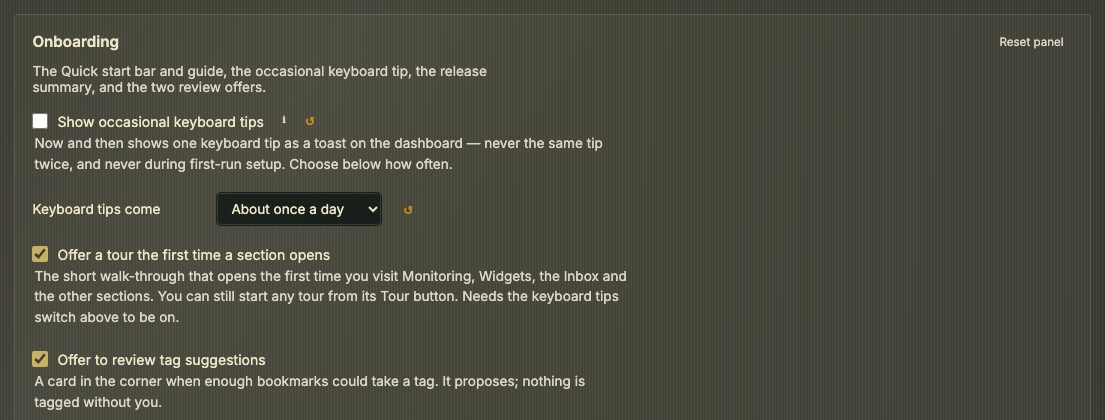
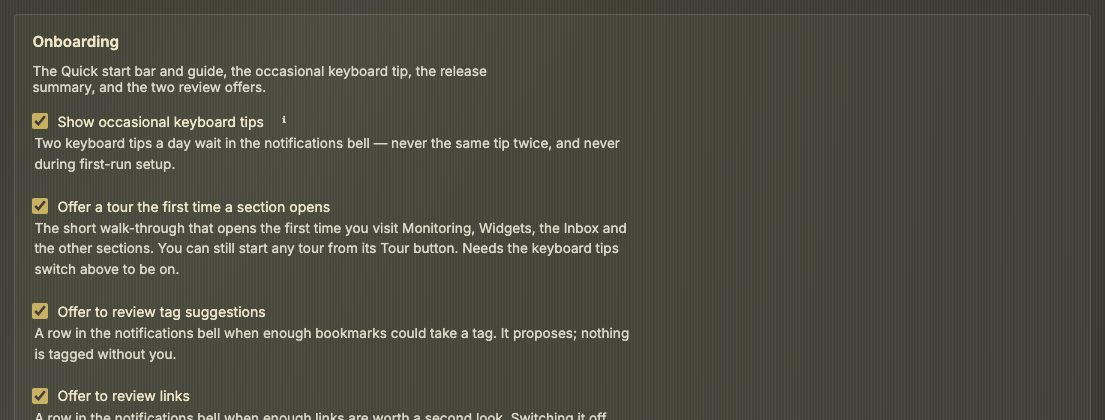
Tips: no pace to choose, since the bell holds two a day

diff --git a/tests/tips-settings.spec.js b/tests/tips-settings.spec.js
@@ -3,7 +3,7 @@ const { test, expect } = require('./fixtures');
 const { dismissOnboardingIfPresent, dismissBlockingOverlays, markWhatsNewSeen } = require('./e2e-helpers');
 
 /**
- * Config → Behavior → Onboarding: how often keyboard tips come, and whether a
+ * Config → Behavior → Onboarding: whether keyboard tips come, and whether a
  * section offers its tour on the first visit. Both are read where the thing is
  * decided, so the tests set the setting and ask that decision.
  */
@@ -17,27 +17,25 @@ async function open(page) {
 }
 
 test.describe('tips settings', () => {
-    test('weekly spaces tips a week apart, daily a day', async ({ page }) => {
+    test('a tip is spaced a day apart, whatever an older install stored', async ({ page }) => {
         await open(page);
-        const allowed = (frequency, agoMs) => page.evaluate(({ frequency, agoMs }) => {
-            window.dashboardInstance.settings.sessionTipsFrequency = frequency;
+        const allowed = (stored, agoMs) => page.evaluate(({ stored, agoMs }) => {
+            // A setting from before the choice was removed must not change the pace.
+            window.dashboardInstance.settings.sessionTipsFrequency = stored;
             const state = window.DiscoverabilityState;
             const exported = state.exportState();
             exported.tipsShownAt = [Date.now() - agoMs];
             exported.tipsNotBefore = 0;
             state.init(exported);
             return state.tipsAllowedNow();
-        }, { frequency, agoMs });
+        }, { stored, agoMs });
         const DAY = 24 * 60 * 60 * 1000;
-        expect(await allowed('daily', 2 * DAY)).toBe(true);
-        expect(await allowed('daily', 0.5 * DAY)).toBe(false);
-        expect(await allowed('weekly', 2 * DAY)).toBe(false);
-        expect(await allowed('weekly', 8 * DAY)).toBe(true);
-        // A browser that never chose is daily.
         expect(await allowed('', 2 * DAY)).toBe(true);
+        expect(await allowed('', 0.5 * DAY)).toBe(false);
+        expect(await allowed('weekly', 2 * DAY)).toBe(true);
     });
 
-    test('the Onboarding group carries the frequency and the tours switch', async ({ page }) => {
+    test('the Onboarding group carries the tips and the tours switches, and no pace', async ({ page }) => {
         await open(page);
         await page.evaluate(async () => {
             const c = window.dashboardInstance.config;
@@ -45,10 +43,10 @@ test.describe('tips settings', () => {
             await c.openConfigView('behavior');
         });
         const group = page.locator('#config-section-panel');
-        await expect(group.locator('[data-behavior-field="sessionTipsFrequency"]')).toBeVisible();
+        await expect(group.locator('[data-behavior-field="enableSessionTips"]')).toBeVisible();
         await expect(group.locator('[data-behavior-field="enableSectionTours"]')).toBeVisible();
-        await group.locator('[data-behavior-field="sessionTipsFrequency"]').selectOption('weekly');
-        expect(await page.evaluate(() => window.dashboardInstance.settings.sessionTipsFrequency)).toBe('weekly');
+        // The bell holds two tips a day: there is no pace to choose any more.
+        await expect(group.locator('[data-behavior-field="sessionTipsFrequency"]')).toHaveCount(0);
     });
 
     for (const [name, on] of [['offers the tour on a first visit while the switch is on', true], ['keeps a first visit quiet once the switch is off', false]]) {

diff --git a/static/js/dashboard/dashboard-config.js b/static/js/dashboard/dashboard-config.js
@@ -9361,7 +9361,6 @@ class DashboardConfig {
         allowLocalBookmarks: { info: ['allowLocalBookmarksInfoTitle', 'allowLocalBookmarksInfoMessage'], def: true },
         enableSessionTips: { info: ['sessionTipsInfoTitle', 'sessionTipsInfoMessage'], hint: 'sessionTipsHint', def: true },
         enableSectionTours: { hint: 'sectionToursHint', def: true },
-        sessionTipsFrequency: { def: 'daily' },
         enableTagSuggestionNotice: { hint: 'tagSuggestionNoticeHint', def: true },
         enableHealthReviewNotice: { hint: 'healthReviewNoticeHint', def: true },
         enableDockerUpdateNotice: { hint: 'dockerUpdateNoticeHint', def: true },
@@ -10499,10 +10498,6 @@ class DashboardConfig {
                 note: t('config.generalGroupOnboardingNote', 'The Quick start bar and guide, the occasional keyboard tip, the release summary, and the two review offers.'),
                 controls: [
                     bool('enableSessionTips', 'config.sessionTipsLabel', 'Show occasional keyboard tips'),
-                    { field: 'sessionTipsFrequency', type: 'select', label: t('config.sessionTipsFrequencyLabel', 'Keyboard tips come'), options: [
-                        opt('daily', t('config.sessionTipsDaily', 'About once a day')),
-                        opt('weekly', t('config.sessionTipsWeekly', 'About once a week')),
-                    ] },
                     bool('enableSectionTours', 'config.sectionToursLabel', 'Offer a tour the first time a section opens'),
                     // The two cards that offer a review on their own. Here
                     // rather than beside the feature each belongs to, because

diff --git a/tests/manual-screenshots-v1-23.spec.js b/tests/manual-screenshots-v1-23.spec.js
@@ -138,11 +138,20 @@ test('17 find settings recent', async ({ page }) => {
     await snap(page, finder, '17-find-settings-recent.jpg', { pad: 4, keepFocus: true });
 });
 
-test('17 onboarding tips frequency', async ({ page }) => {
+
+// The kit puts the keyboard tips away so no tip sits over a picture; this scene shows them on.
+const tipsOn = { run: (dir) => {
+    const kit = require('./helpers/manual-shot-kit');
+    const file = kit.path.join(dir, 'settings.json');
+    kit.writeJSON(file, { ...kit.readJSON(file), enableSessionTips: true });
+} };
+test.describe('onboarding tips picture', () => {
+    test.use({ dataTweak: tipsOn });
+test('17 onboarding tips', async ({ page }) => {
     await prepare(page);
     await openConfig(page, 'behavior');
     await page.locator('[data-behavior-tab="privacy"]').first().click();
-    const select = page.locator('[data-behavior-field="sessionTipsFrequency"]');
+    const select = page.locator('[data-behavior-field="enableSessionTips"]');
     await select.waitFor();
     const group = page.locator('#config-section-panel .config-panel', { has: select }).first();
     // The group's title sits under the sticky head unless it is scrolled clear of it.
@@ -154,4 +163,5 @@ test('17 onboarding tips frequency', async ({ page }) => {
     // Pacing for the capture, not a condition: the section finishes scrolling.
     await page.waitForTimeout(600);
     await snap(page, group, '17-onboarding-tips.jpg', { pad: 14, maxHeight: 420 });
+});
 });

diff --git a/tests/config-info-reset.spec.js b/tests/config-info-reset.spec.js
@@ -106,6 +106,9 @@ test.describe('config info + reset affordances', () => {
             // Carried for the ↺ button and the changed-settings count; it has no
             // control of its own, so there is nothing for an ℹ to sit beside.
             'newBookmarkCategory',
+            // The bell's sound carries a hint line under the toggle, and the name for the
+            // greeting a note above it: the explanation is on screen, so no ℹ.
+            'bellSound', 'greetingName',
             // Reads as part of the toggle above it, which carries the ℹ.
             'rowTagsMax', 'smartAddedLimit',
             // The category header: the panel's note says what the five do and
@@ -126,8 +129,6 @@ test.describe('config info + reset affordances', () => {
             // The two review offers carry a hint line under the toggle that
             // says what the card does and what switching it off leaves alone,
             // so the explanation is on screen rather than behind an ℹ.
-            // A two-choice select whose options say it (a day, a week).
-            'sessionTipsFrequency',
             'enableTagSuggestionNotice', 'enableHealthReviewNotice', 'enableDockerUpdateNotice', 'enableHealthRecheckNotice', 'enableInboxExtensionNotice', 'enableUpdatedNotice', 'enableSectionTours',
             // The Kept pair, for the same reason: the hint under each says what
             // it does in a sentence — "Adds a Kept tab to the inbox, and makes

diff --git a/tests/site-shots-A.spec.js b/tests/site-shots-A.spec.js
@@ -349,11 +349,18 @@ test.describe('behavior', () => {
         await shot(page, 'behavior/shot-4.jpg');
     });
 
+    test.describe('with tips on', () => {
+        test.use({ dataTweak: { run: (dir) => {
+            const kit = require('./helpers/manual-shot-kit');
+            const file = kit.path.join(dir, 'settings.json');
+            kit.writeJSON(file, { ...kit.readJSON(file), enableSessionTips: true });
+        } } });
     test('behavior privacy and sync', async ({ page }) => {
         await prepare(page);
         await openBehavior(page, 'privacy');
         await scrollToTop(page, panelTitled(page, /^Privacy$/), 90);
         await shot(page, 'behavior/shot-5.jpg');
+    });
     });
 });
 

diff --git a/tests/site-shots-E.spec.js b/tests/site-shots-E.spec.js
@@ -18,7 +18,7 @@ const writeJSON = (file, data) => fs.writeFileSync(file, `${JSON.stringify(data,
 /** Settings that differ from the defaults, three on Behavior General and two on Privacy and sync. */
 function changedData(dir) {
     const file = path.join(dir, 'settings.json');
-    writeJSON(file, { ...readJSON(file), lockLayout: true, openInNewTab: false, rememberScrollPosition: false, showSiteNews: false, sessionTipsFrequency: 'daily' });
+    writeJSON(file, { ...readJSON(file), lockLayout: true, openInNewTab: false, rememberScrollPosition: false, showSiteNews: false });
 }
 
 /** Three stored backups, each with its age in its name. */

diff --git a/static/js/discoverability-state.js b/static/js/discoverability-state.js
@@ -203,8 +203,7 @@
      * an earlier version runs out instead of being dropped.
      */
     function tipsWindowMs() {
-        const frequency = global.dashboardInstance?.settings?.sessionTipsFrequency;
-        return frequency === 'weekly' ? TIPS_WEEK_MS : TIPS_WINDOW_MS;
+        return TIPS_WINDOW_MS;
     }
 
     function tipsAllowedNow(now = Date.now()) {

diff --git a/internal/app/asset_hashes_gen.go b/internal/app/asset_hashes_gen.go
@@ -166,7 +166,7 @@ var precomputedAssetHashes = map[string]string{
 	"js/dashboard/dashboard-config-widget-media.js":          "4bdf59c2a510",
 	"js/dashboard/dashboard-config-widget-wizard.js":         "0a7340179178",
 	"js/dashboard/dashboard-config-widgets.js":               "25949830f74c",
-	"js/dashboard/dashboard-config.js":                       "50b4e63f4c07",
+	"js/dashboard/dashboard-config.js":                       "0c534d9a2317",
 	"js/dashboard/dashboard-context-menu.js":                 "1fe67077966f",
 	"js/dashboard/dashboard-data.js":                         "d7be15664f40",
 	"js/dashboard/dashboard-date-weather.js":                 "3f934988a8c6",
@@ -289,7 +289,7 @@ var precomputedAssetHashes = map[string]string{
 	"js/device-settings-merge.js":                            "27169b28f5f6",
 	"js/digest-card-state.js":                                "531a10e47467",
 	"js/digest-notice.js":                                    "a4c7d0d4abc0",
-	"js/discoverability-state.js":                            "8aabcd9db832",
+	"js/discoverability-state.js":                            "6ef2619f2702",
 	"js/docker-update-notice.js":                             "7a325cd59a7a",
 	"js/edit-mode-notice.js":                                 "3453617c2f54",
 	"js/feed-watch-tab-badge.js":                             "0633bebc5843",

diff --git a/CHANGELOG.md b/CHANGELOG.md
@@ -146,6 +146,7 @@ A notifications bell in the navigation bar, a greeting with your name beside a l
 - **new — Config can bring back dismissed notifications.** *Bring back dismissed notifications* puts every answered **No** and every read row back in the bell.
 - **new — Tips: two a day, each leading to its own place.** Two new tips a day wait in the bell, whether or not yesterday's were read. Each has a button to the place it is about (Config, the Inbox, the Bookmarks view, Containers, the tag cloud, the palette and more).
 - **fix — A row you took up stays away.** Pressing the coloured button on a row (*Start*, *Open the Inbox*) slid the row out and closed the panel, but the row was back the next time the bell opened. It is now put aside until it gets worse, the way **No** does, without telling the source that anything was declined.
+- **fix — Tips no longer offer a pace they do not keep.** *Keyboard tips come* (a day or a week) is gone from Behavior → Privacy & sync → Onboarding: the bell holds two tips a day whatever it said. Its hint and the ℹ of *Show occasional keyboard tips* describe the bell now, and the offers for tag suggestions and link review say they wait there, in six languages.
 - **new — Mark read in the Watch feeds popover.** The popover has a **Mark read** button, quieter than the Reader button beside it.
 - **new — Bell usage in the analytics.** The bell reports how it is used, in fixed words and bucketed counts; the text of a notification never leaves.
 - **new — One-time notes for the bell and the action bar.** A short coach note says what the bell is and what the action bar offers, once.
@@ -175,7 +176,6 @@ A notifications bell in the navigation bar, a greeting with your name beside a l
 - **docs — Translations.** The bell, the greeting, the tip buttons, the action-bar note and the AdGuard Home and Pi-hole widgets in Dutch, German, French, Spanish and Chinese. Forty-one strings that only had an English fallback in the code (the DNS widgets, the What's new footer, *Mark read* in the Watch feeds popover) are now in `en.json` and translated. The French header clock option and the greeting strings no longer show English.
 - **docs — Config → Help.** *Header & action buttons* covers the large clock, the greeting and the bell; *Alerts & notifications* has a paragraph on the bell; *Widget kinds* counts fifty-three kinds, adds AdGuard Home and Pi-hole and describes the clock face.
 - **docs — Tips.** Four new tips: the bell, your name in the greeting, the clock face and the DNS widgets. Each leads to its place from the bell.
-- **docs — The manual and Help say where things wait.** Seven passages of the manual and five Help and tip texts (the digest, the Behavior notices, the inbox and Containers offers) no longer speak of corner cards, toasts and one tip a day: they describe the notifications bell, in six languages.
 
 ### Browser extension
 

diff --git a/MANUAL.md b/MANUAL.md
@@ -1047,7 +1047,7 @@ A bookmark row shows its icon, name, optional tags, the shortcut letters and, wh
 
 **Occasional tips.** Tips do not pop up over your work. Two keyboard tips a day wait in the notifications bell ([§4](#the-notifications-bell)), a new pair each calendar day whether or not yesterday's were read, never one you have already read, each with a button to the place it is about. **Show occasional keyboard tips** (Behavior → Privacy & sync → Onboarding) turns them off.
 
-<p align="center"><img src="screenshots/manual.md/17-onboarding-tips.jpg" alt="Config, Behavior, Privacy and sync, the Onboarding group: Show occasional keyboard tips, the Keyboard tips come list set to About once a day, and the switch Offer a tour the first time a section opens" width="760"></p>
+<p align="center"><img src="screenshots/manual.md/17-onboarding-tips.jpg" alt="Config, Behavior, Privacy and sync, the Onboarding group: the switch Show occasional keyboard tips and the switch Offer a tour the first time a section opens" width="760"></p>
 
 **Tours on a first visit.** **Offer a tour the first time a section opens** (the same group, on by default) decides whether Monitoring, Widgets, the Inbox, the Bookmarks view and the other sections open their tour by themselves the first time you visit. It needs the keyboard tips switch on. Switched off, every tour is still one click away on its **Tour** button.
 
